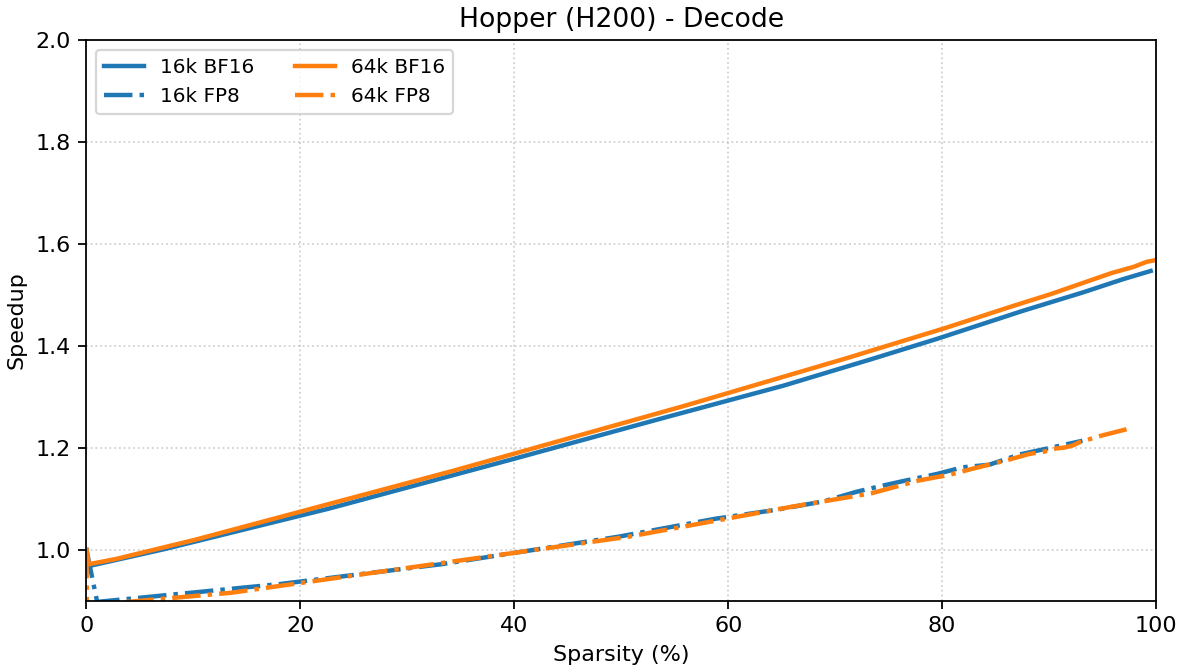
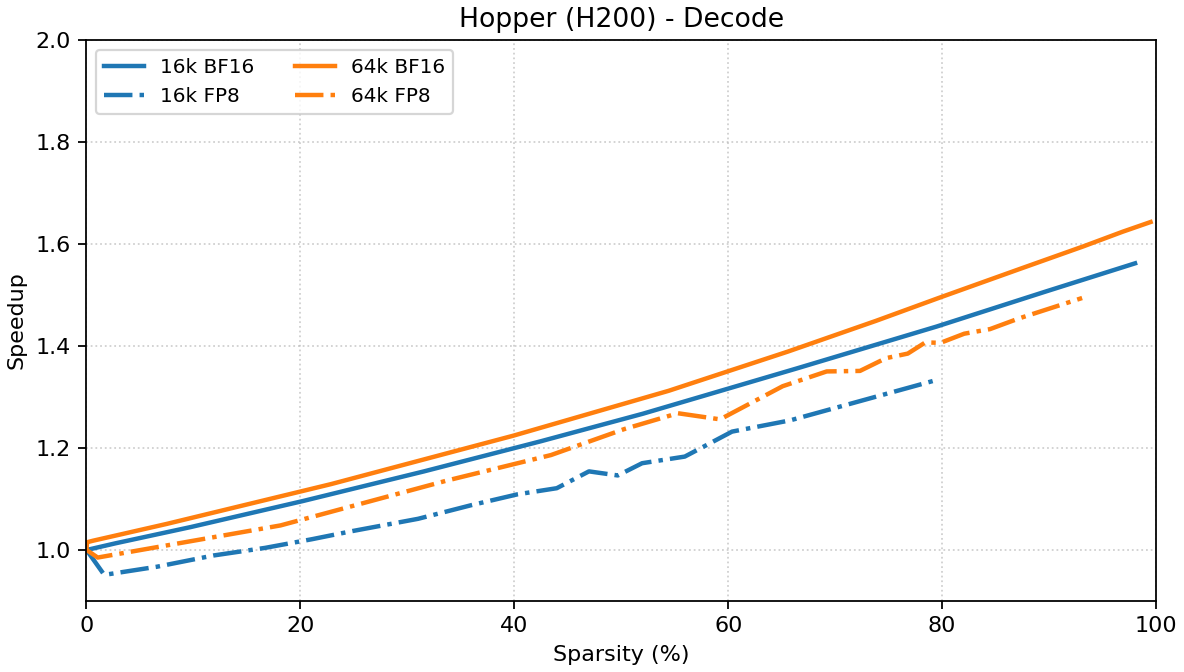
Refresh data.

diff --git a/docs/source/blogs/tech_blog/blog16_Accelerating_Long_Context_Inference_with_Skip_Softmax_Attention.md b/docs/source/blogs/tech_blog/blog16_Accelerating_Long_Context_Inference_with_Skip_Softmax_Attention.md
@@ -78,29 +78,36 @@ The actual threshold value equals the `threshold_scale_factor` divided by the co
 | Target Sparsity | Threshold Scale Factor (Prefill) | Threshold Scale Factor (Decode) |
 |:---------------:|:----------------------------:|:----------------------------:|
 | 0.0             | 0.0                          | 0.0                          |
-| 0.5             | 85.97                        | 55.48                        |
-| 0.6             | 333.81                       | 118.90                       |
-| 0.7             | 469.03                       | 254.23                       |
-| 0.8             | 718.14                       | 418.73                       |
-| 0.9             | 1418.14                      | 863.14                       |
+| 0.1             | 18.76                        | 0.32                         |
+| 0.2             | 44.37                        | 0.86                         |
+| 0.3             | 104.97                       | 2.30                         |
+| 0.4             | 248.40                       | 6.17                         |
+| 0.5             | 587.18                       | 16.52                        |
+| 0.6             | 1390.63                      | 44.26                        |
+| 0.7             | 3293.04                      | 118.62                       |
+| 0.8             | 7799.91                      | 317.99                       |
+| 0.9             | 18471.56                     | 852.20                       |
 
 ## Accuracy Evaluation
 We evaluate the accuracy of Skip Softmax Attention using LongBench V1 and V2. LongBench V1 is a comprehensive benchmark for medium-to-long context understanding, with average sequence length of 10k tokens. LongBench V2 is a harder benchmark that contains longer sequences, and we pick its `medium` subset and truncate the prompt length to 256k due to the limit of the native context window of the model. The average sequence length of LongBench V2 is 130k tokens.
 
-The evaluation results are summarized in the table below:
+The evaluation results (on H200) are summarized in the table below:
 
 | Target Sparsity | LongBench V1 Overall Accuracy | LongBench V2 Overall Accuracy |
 |:---------------:|:----------------------------:|:----------------------------:|
-| 0.0             | 47.77                        | 36.28                        |
-| 0.5             | 47.43                        | 38.14                        |
-| 0.6             | 47.47                       | 39.53                        |
-| 0.7             | 47.21                     | 39.53                        |
-| 0.8             | 46.50                     | 37.21                        |
-| 0.9             | 45.97                       | 37.21                        |
+| 0.0             | 47.79                    |          35.81              |
+| 0.1             | 47.92                       |       40.00                 |
+| 0.2             | 47.80                        |      38.14                  |
+| 0.3             | 47.84                        |       38.60                 |
+| 0.4             | 47.84                       |        39.53                |
+| 0.5             | 46.87                       |       37.67              |
+| 0.6             | 46.45                       |       36.28                 |
+| 0.7             | 45.56                     |         34.88               |
+| 0.8             | 43.38                     |         36.74              |
+| 0.9             | 39.84                       |        39.07            |
 
 Note that the number of samples in LongBench V2 is very small (~200), so the result is subject to large variance. You will see non-monotonic relationship between sparsity and accuracy. We recommend to look at LongBench V1 (~5000 samples) for inspecting the accuracy loss trend.
 
-These results demonstrate that Skip Softmax Attention is safe to use without significant accuracy degradation.
 
 
 ## Performance Benchmark
@@ -116,27 +123,27 @@ As a reference, the baseline performance data **without** Skip Softmax Attention
 
 | GPU | Seqlen | Precision | TFLOP/s | Duration µs |
 |:---:|:-----:|:---------:|--------:|--------------:|
-| H200 | 16k | BF16 | 594.05 | 7403.50 |
-| H200 | 16k | FP8  | 852.81 | 5157.12 |
-| H200 | 64k | BF16 | 610.30 | 115301.89 |
-| H200 | 64k | FP8  | 873.60 | 80550.30 |
-| B200 | 16k | BF16 | 1029.13 | 4273.56 |
-| B200 | 16k | FP8  | 1523.57 | 2886.67 |
-| B200 | 64k | BF16 | 1038.26 | 67775.65 |
-| B200 | 64k | FP8  | 1621.41  | 43399.72 |
+| H200 | 16k | BF16 | 594.05 | 7403 |
+| H200 | 16k | FP8  | 852.81 | 5157 |
+| H200 | 64k | BF16 | 610.30 | 115301 |
+| H200 | 64k | FP8  | 873.60 | 80550 |
+| B200 | 16k | BF16 | 1029.13 | 4273 |
+| B200 | 16k | FP8  | 1523.57 | 2886 |
+| B200 | 64k | BF16 | 1038.26 | 67775 |
+| B200 | 64k | FP8  | 1621.41  | 43399 |
 
 **Decode Baseline (we report memory bandwidth in TB/s):**
 
 | GPU | Seqlen | Precision | TB/s | Duration µs |
 |:---:|:-----:|:---------:|-----------------:|--------------:|
-| H200 | 16k | BF16 | 4.391 | 489.06 |
-| H200 | 16k | FP8  | 3.158 | 340.01 |
-| H200 | 64k | BF16 | 4.410 | 1947.83 |
-| H200 | 64k | FP8  | 3.221 | 1333.43 |
-| B200 | 16k | BF16 | 7.082 | 303.23 |
-| B200 | 16k | FP8  | 5.457 | 196.76 |
-| B200 | 64k | BF16 | 7.102 | 1209.51 |
-| B200 | 64k | FP8  | 5.683 | 755.76 |
+| H200 | 16k | BF16 | 4.31 | 498 |
+| H200 | 16k | FP8  | 4.03 | 266 |
+| H200 | 64k | BF16 | 4.37 | 1962 |
+| H200 | 64k | FP8  | 4.10 | 1045 |
+| B200 | 16k | BF16 | 7.08 | 303 |
+| B200 | 16k | FP8  | 5.46 | 196 |
+| B200 | 64k | BF16 | 7.10 | 1209 |
+| B200 | 64k | FP8  | 5.68 | 755 |
 
 The following figures plot **speedup vs. achieved sparsity**, on top of the baseline performance:
 
@@ -170,12 +177,16 @@ We benchmark the end-to-end performance to demonstrate the benefit of Skip Softm
 
 | Target Sparsity | TTFT/ms (H200) | TPOT/ms (H200) | TTFT/ms (B200) | TPOT/ms (B200) |
 |:--------------:|------------------:|-----------------:|--------------------:|--------------------:|
-| 0.0            | 9419.61           | 1731.80          | 4997.07             | 955.49              |
-| 0.5            | 9321.41           | 1712.62          | 4701.96             | 899.31              |
-| 0.6            | 9226.75           | 1701.59          | 4680.72             | 895.33              |
-| 0.7            | 9065.09           | 1672.45          | 4634.84             | 889.68              |
-| 0.8            | 8778.14           | 1622.27          | 4531.42             | 870.22              |
-| 0.9            | 8618.86           | 1596.62          | 4475.78             | 861.18              |
+| 0.0            | 9419.61           | 1731.80          | 4854.55             | 928.45              |
+| 0.1            | 9519.40           | 1746.73          | 4758.06             | 909.08              |
+| 0.2            | 9417.36           | 1729.74          | 4794.23             | 916.64              |
+| 0.3            | 9304.48           | 1711.27          | 4770.26             | 913.51              |
+| 0.4            | 9139.85           | 1684.78          | 4672.09             | 896.25              |
+| 0.5            | 8847.43           | 1633.08          | 4548.07             | 873.80              |
+| 0.6            | 8437.45           | 1560.64          | 4459.08             | 858.60              |
+| 0.7            | 8134.72           | 1508.60          | 4385.12             | 846.64              |
+| 0.8            | 8107.73           | 1507.82          | 4348.80             | 831.88              |
+| 0.9            | 8130.39           | 1516.16          | 4150.44             | 798.93              |
 
 LongBench V1 results are reported with concurrency 64. Due to the nature of in-flight batching, the decoding requests might be piggybacked with the prefilling requests, so the TPOT is relatively high.
 
@@ -183,12 +194,16 @@ LongBench V1 results are reported with concurrency 64. Due to the nature of in-f
 
 | Target Sparsity | TTFT/ms (H200) | TPOT/ms (H200) | TTFT/ms (B200) | TPOT/ms (B200) |
 |:--------------:|------------------:|-----------------:|--------------------:|--------------------:|
-| 0.0            | 16277.58          | 9.32             | 7370.71             | 6.34                |
-| 0.5            | 15487.28          | 8.57             | 6655.98             | 6.30                |
-| 0.6            | 15020.24          | 8.57             | 6431.65             | 6.25                |
-| 0.7            | 14921.12          | 8.42             | 6355.43             | 6.24                |
-| 0.8            | 14465.74          | 8.41             | 6192.77             | 6.26                |
-| 0.9            | 13791.37          | 8.40             | 6043.06             | 6.27                |
+| 0.0            | 16486.70          | 9.34             | 6990.59             | 6.30                |
+| 0.1            | 16487.54          | 8.61             | 7024.50             | 6.30                |
+| 0.2            | 16169.69          | 8.61             | 6687.21             | 6.34                |
+| 0.3            | 15750.17          | 8.46             | 6616.12             | 6.33                |
+| 0.4            | 15288.68          | 8.61             | 6432.32             | 6.27                |
+| 0.5            | 14554.04          | 8.45             | 6193.92             | 6.29                |
+| 0.6            | 14323.08          | 8.44             | 5966.53             | 6.32                |
+| 0.7            | 13871.32          | 8.42             | 5769.19             | 6.31                |
+| 0.8            | 12922.99          | 8.58             | 5605.66             | 6.23                |
+| 0.9            | 12507.95          | 8.58             | 5276.67             | 6.29                |
 
 Due to the extremely long context length, we only run LongBench V2 with concurrency 1. In this scenario, the prefilling/decoding is better separated and we can observe how is TTFT/TPOT affected by the sparsity. Note that the speedup for decoding is less pronounced under small batch size. Small batch size and small number of heads (with TP) are more close to real-world usage for long-context serving due to the limit of SLO, and we are actively optimizing the decoding performance under such scenarios.
 
@@ -197,7 +212,6 @@ Due to the extremely long context length, we only run LongBench V2 with concurre
 We provide the commands to reproduce the results in the previous context, as a showcase of how to evaluate the accuracy and benchmark the performance for Skip Softmax Attention.
 
 ### Accuracy evaluation (LongBench V1/V2)
-> Please manually `pip install lm_eval==0.4.9.2` before reproducing the results. There is a known bug in the current version of `lm_eval` in `requirements-dev.txt`.
 
 Both LongBench V1 and V2 are integrated into the TensorRT-LLM accuracy test suite, `trtllm-eval`. Here are the example scripts to run the accuracy evaluation:
 
@@ -261,8 +275,6 @@ throughput --dataset ${OUTPUT_DIR}/dumped_ids.json \
 --report_json ${OUTPUT_DIR}/report.json
 ```
 
-
-TODO: Compare with MInference.
 
 ## Conclusion
 Skip Softmax Attention is a kernel-based solution for accelerating the attention. Due to the design that BMM1 ($Q \cdot K^T$) in the attention kernel is not skipped, the performance gain is capped to 1.8x at kernel level. Nevertheless, it excels at achieving high sparsity with minimal accuracy degradation, and is especially effective in the medium-to-long context (10k-100k) scenarios where previous methods like MInference cannot well handle. The drop-in nature of Skip Softmax Attention makes it a flexible, easy-to-use method for accelerating long-context inference. MLA support for Skip Softmax Attention will be added in the future, and the Skip Softmax Attention kernels will be available in FlashInfer for adoptions by the open-source community.
